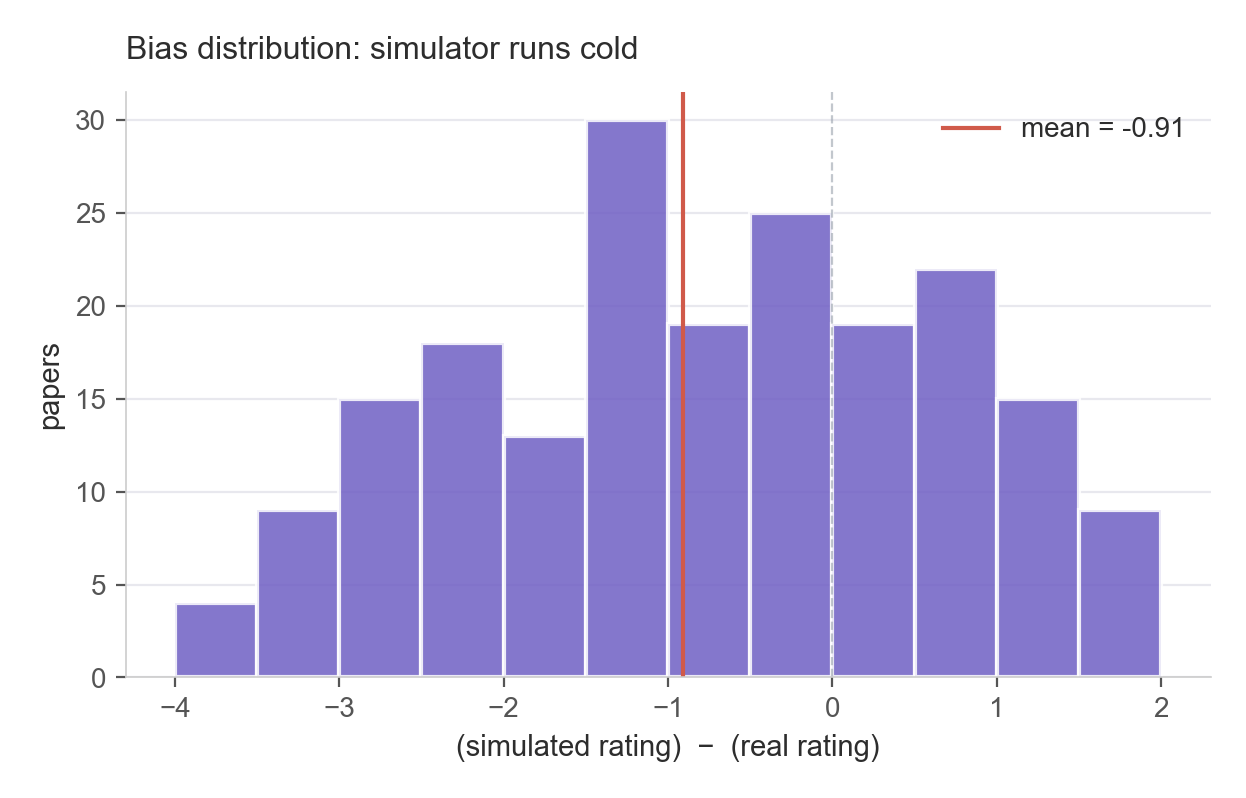
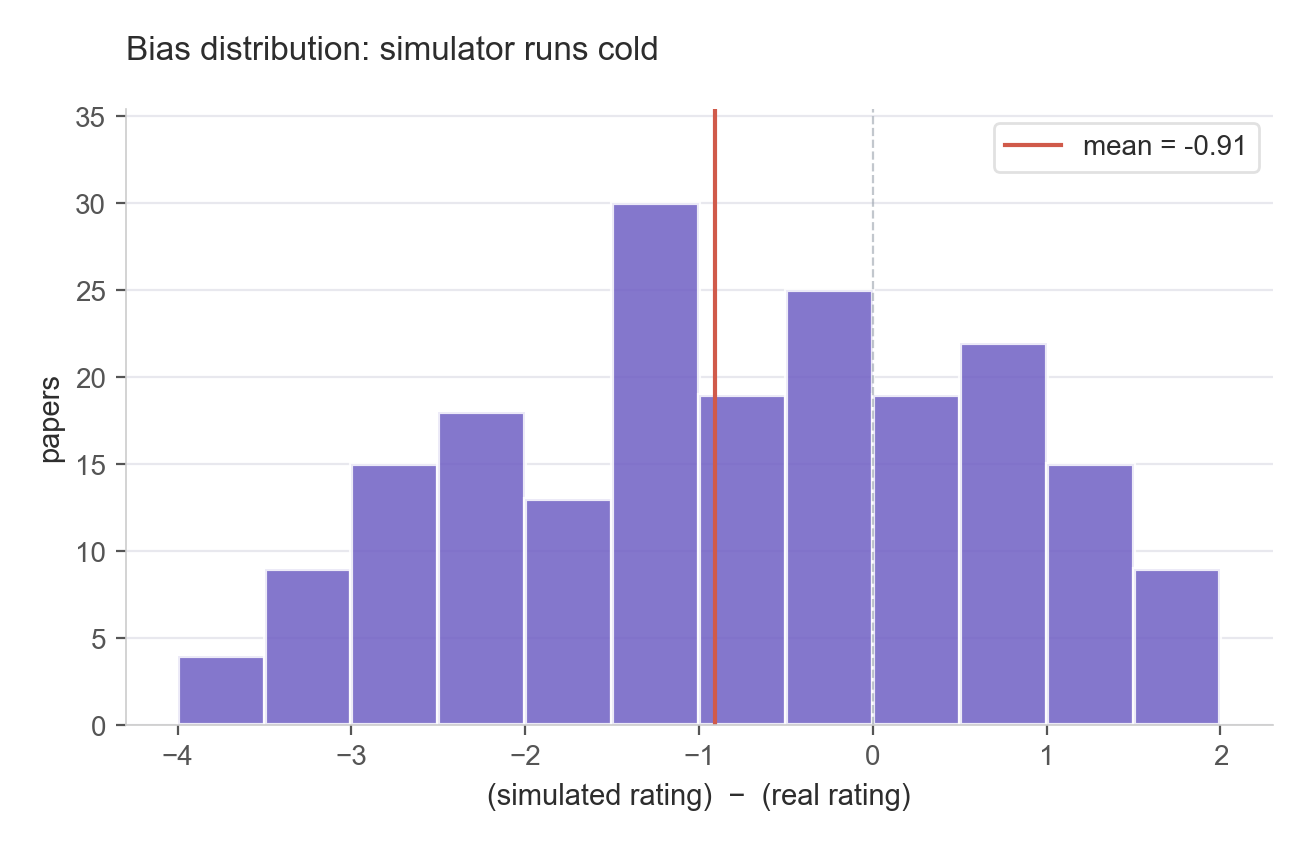
Fix plot readability: error-bar/label collisions, clarify 45° lines, title overlap
- calibration_metrics: place value labels above the upper CI bound (not above
  bar height) so the error-bar caps don't sit on the numbers; raise y-limit
  to 1.20 for headroom.
- sim_vs_real_scatter: relabel the two reference lines explicitly:
    'perfect (y = x, 45°)' for the dashed diagonal,
    'actual mean (y = x − 0.91)' for the bias-shifted line.
  Boxed legend so it stands clear of the data.
- rating_distribution: shorten title, raise pad to 18, move legend to upper
  right (away from the tall sim bar at rating 4), 18% headroom above the
  tallest bar.
- bias_histogram + boundary_cheap_vs_full: same headroom + boxed legend
  treatment for consistency.

diff --git a/scripts/make_plots.py b/scripts/make_plots.py
@@ -96,9 +96,10 @@ def plot_calibration_metrics():
     ax.errorbar(xs, vals, yerr=[los, his], fmt="none", ecolor=P["ink"],
                 elinewidth=1.0, capsize=6, capthick=1.0, alpha=0.7)
 
-    for x, v in zip(xs, vals):
-        ax.text(x, v + 0.04, f"{v:.3f}", ha="center", va="bottom",
-                fontsize=10, color=P["ink"], fontweight="bold")
+    # Place value labels ABOVE the upper CI bound so error-bar caps never sit on them.
+    for x, v, hi in zip(xs, vals, his):
+        ax.text(x, v + hi + 0.045, f"{v:.3f}", ha="center", va="bottom",
+                fontsize=10.5, color=P["ink"], fontweight="bold")
 
     ax.axhline(0.4, color=P["neutral"], linestyle="--", linewidth=0.8, alpha=0.6)
     ax.text(len(names) - 0.45, 0.42, "ρ ≥ 0.4 = useful signal",
@@ -107,7 +108,7 @@ def plot_calibration_metrics():
     ax.set_xticks(xs)
     ax.set_xticklabels([n for _, n, _ in names])
     ax.set_ylabel("score (1.0 = perfect)")
-    ax.set_ylim(0, 1.05)
+    ax.set_ylim(0, 1.20)  # extra headroom for labels above CI caps
     ax.set_title(f"Calibration on N={cal['n']} held-out OpenReview papers (95% bootstrap CI)",
                  loc="left", pad=12, fontsize=11.5, color=P["ink"])
     ax.yaxis.grid(True)
@@ -125,26 +126,32 @@ def plot_sim_vs_real():
     sim = np.array([p["sim_avg"] for p in pairs])
     accepted = np.array([p["accepted"] for p in pairs])
 
-    fig, ax = plt.subplots(figsize=(6.0, 5.5))
-    ax.scatter(real[accepted], sim[accepted], s=24, alpha=0.55,
+    fig, ax = plt.subplots(figsize=(6.4, 5.8))
+    ax.scatter(real[accepted], sim[accepted], s=26, alpha=0.55,
                color=P["accent"], edgecolor="none", label="Accepted")
-    ax.scatter(real[~accepted], sim[~accepted], s=24, alpha=0.55,
+    ax.scatter(real[~accepted], sim[~accepted], s=26, alpha=0.55,
                color=P["danger"], edgecolor="none", label="Rejected")
 
     lims = [min(real.min(), sim.min()) - 0.5, max(real.max(), sim.max()) + 0.5]
-    ax.plot(lims, lims, color=P["neutral"], linewidth=0.7, linestyle="--", alpha=0.7)
-    # Bias line: sim = real + bias
     bias = float(np.mean(sim - real))
-    ax.plot(lims, [l + bias for l in lims], color=P["primary"], linewidth=1.2, alpha=0.8,
-            label=f"mean offset ({bias:+.2f})")
+
+    # Two reference lines, both 45°, parallel:
+    #   dashed gray = perfect agreement (sim == real)
+    #   solid purple = actual mean (sim == real + bias), shifted by the −0.91 offset
+    ax.plot(lims, lims, color=P["neutral"], linewidth=1.0, linestyle="--", alpha=0.85,
+            label="perfect (y = x, 45°)")
+    ax.plot(lims, [l + bias for l in lims], color=P["primary"], linewidth=1.6, alpha=0.85,
+            label=f"actual mean (y = x − {abs(bias):.2f})")
 
     ax.set_xlim(lims)
     ax.set_ylim(lims)
     ax.set_xlabel("real reviewer avg rating")
     ax.set_ylabel("simulated avg rating")
-    ax.set_title("Simulated vs real rating", loc="left", pad=12, fontsize=11.5)
+    ax.set_title("Simulated vs real rating",
+                 loc="left", pad=18, fontsize=11.5)
     ax.set_aspect("equal")
-    ax.legend(loc="upper left", frameon=False, fontsize=9)
+    ax.legend(loc="upper left", frameon=True, fontsize=9,
+              facecolor="white", edgecolor="#e0e0e0", framealpha=0.95)
     ax.grid(True, alpha=0.7)
 
     plt.savefig(ASSETS / "sim_vs_real_scatter.png")
@@ -157,18 +164,21 @@ def plot_bias_histogram():
     cal = json.loads((DATA / "calibration" / "calibration.json").read_text(encoding="utf-8"))
     diffs = np.array([p["sim_avg"] - p["real_avg"] for p in cal["pairs"]])
 
-    fig, ax = plt.subplots(figsize=(7.0, 3.8))
+    fig, ax = plt.subplots(figsize=(7.4, 4.0))
     bins = np.arange(np.floor(diffs.min() * 2) / 2, np.ceil(diffs.max() * 2) / 2 + 0.5, 0.5)
-    ax.hist(diffs, bins=bins, color=P["primary"], alpha=0.85, edgecolor="white", linewidth=1.5)
+    counts, _, _ = ax.hist(diffs, bins=bins, color=P["primary"], alpha=0.85,
+                           edgecolor="white", linewidth=1.5)
     mean = float(np.mean(diffs))
     ax.axvline(0, color=P["neutral"], linewidth=0.8, linestyle="--", alpha=0.6)
     ax.axvline(mean, color=P["danger"], linewidth=1.5, label=f"mean = {mean:+.2f}")
     ax.set_xlabel("(simulated rating)  −  (real rating)")
     ax.set_ylabel("papers")
     ax.set_title("Bias distribution: simulator runs cold",
-                 loc="left", pad=12, fontsize=11.5)
-    ax.legend(loc="upper right", frameon=False, fontsize=10)
+                 loc="left", pad=18, fontsize=12)
+    ax.legend(loc="upper right", frameon=True, fontsize=10,
+              facecolor="white", edgecolor="#e0e0e0", framealpha=0.95)
     ax.yaxis.grid(True)
+    ax.set_ylim(0, counts.max() * 1.18)
 
     plt.savefig(ASSETS / "bias_histogram.png")
     plt.close()
@@ -184,7 +194,7 @@ def plot_boundary_comparison():
     cheap = np.array([p["cheap_sim_avg"] for p in pairs])
     full = np.array([p["full_sim_avg"] for p in pairs])
 
-    fig, ax = plt.subplots(figsize=(9.0, 4.4))
+    fig, ax = plt.subplots(figsize=(9.2, 4.7))
     xs = np.arange(n)
     w = 0.27
     ax.bar(xs - w, real, width=w, color=P["accent"], label="real reviewers", edgecolor="white", linewidth=1.0)
@@ -194,13 +204,14 @@ def plot_boundary_comparison():
     ax.set_xticks(xs)
     ax.set_xticklabels([p["forum_id"][:6] for p in pairs], rotation=45, ha="right", fontsize=8.5)
     ax.set_ylabel("avg rating")
-    ax.set_ylim(0, 10)
+    ax.set_ylim(0, 12)  # extra headroom so title + legend don't crowd the bars
     bias_cheap = float(np.mean(cheap - real))
     bias_full = float(np.mean(full - real))
     ax.set_title(f"Stage 3 boundary (N={n}) — Opus closes 31% of bias gap "
                  f"({bias_cheap:+.2f} → {bias_full:+.2f})",
-                 loc="left", pad=12, fontsize=11.5)
-    ax.legend(loc="upper right", frameon=False, fontsize=9.5, ncol=3)
+                 loc="left", pad=18, fontsize=12)
+    ax.legend(loc="upper right", frameon=True, fontsize=9.5, ncol=3,
+              facecolor="white", edgecolor="#e0e0e0", framealpha=0.95)
     ax.yaxis.grid(True)
 
     plt.savefig(ASSETS / "boundary_cheap_vs_full.png")
@@ -310,19 +321,28 @@ def plot_rating_dist():
     real = np.array([p["real_avg"] for p in cal["pairs"]])
     sim = np.array([p["sim_avg"] for p in cal["pairs"]])
 
-    fig, ax = plt.subplots(figsize=(7.5, 4.0))
+    fig, ax = plt.subplots(figsize=(7.8, 4.3))
     bins = np.arange(1, 10.5, 0.5)
-    ax.hist(real, bins=bins, color=P["accent"], alpha=0.7, label=f"real (μ={real.mean():.2f}, σ={real.std():.2f})",
+    ax.hist(real, bins=bins, color=P["accent"], alpha=0.7,
+            label=f"real (μ={real.mean():.2f}, σ={real.std():.2f})",
             edgecolor="white", linewidth=1.2)
-    ax.hist(sim, bins=bins, color=P["primary"], alpha=0.7, label=f"simulated (μ={sim.mean():.2f}, σ={sim.std():.2f})",
+    ax.hist(sim, bins=bins, color=P["primary"], alpha=0.7,
+            label=f"simulated (μ={sim.mean():.2f}, σ={sim.std():.2f})",
             edgecolor="white", linewidth=1.2)
     ax.set_xlabel("avg rating")
     ax.set_ylabel("papers")
-    ax.set_title("Rating distributions: real reviewers spread wider; simulator clusters in 4-5",
-                 loc="left", pad=12, fontsize=11.5)
-    ax.legend(loc="upper left", frameon=False, fontsize=10)
+    # Pad the title generously and add headroom so it never collides with bars.
+    ax.set_title("Rating distributions",
+                 loc="left", pad=18, fontsize=12)
+    # Place legend in the upper RIGHT (real-reviewer tail is sparser there → no overlap)
+    ax.legend(loc="upper right", frameon=True, fontsize=10,
+              facecolor="white", edgecolor="#e0e0e0", framealpha=0.95)
     ax.set_xticks(np.arange(1, 11, 1))
     ax.yaxis.grid(True)
+    # 15% headroom above the tallest bar so title + legend never crowd the data.
+    ymax = max(np.histogram(real, bins=bins)[0].max(),
+               np.histogram(sim, bins=bins)[0].max())
+    ax.set_ylim(0, ymax * 1.18)
 
     plt.savefig(ASSETS / "rating_distribution.png")
     plt.close()
